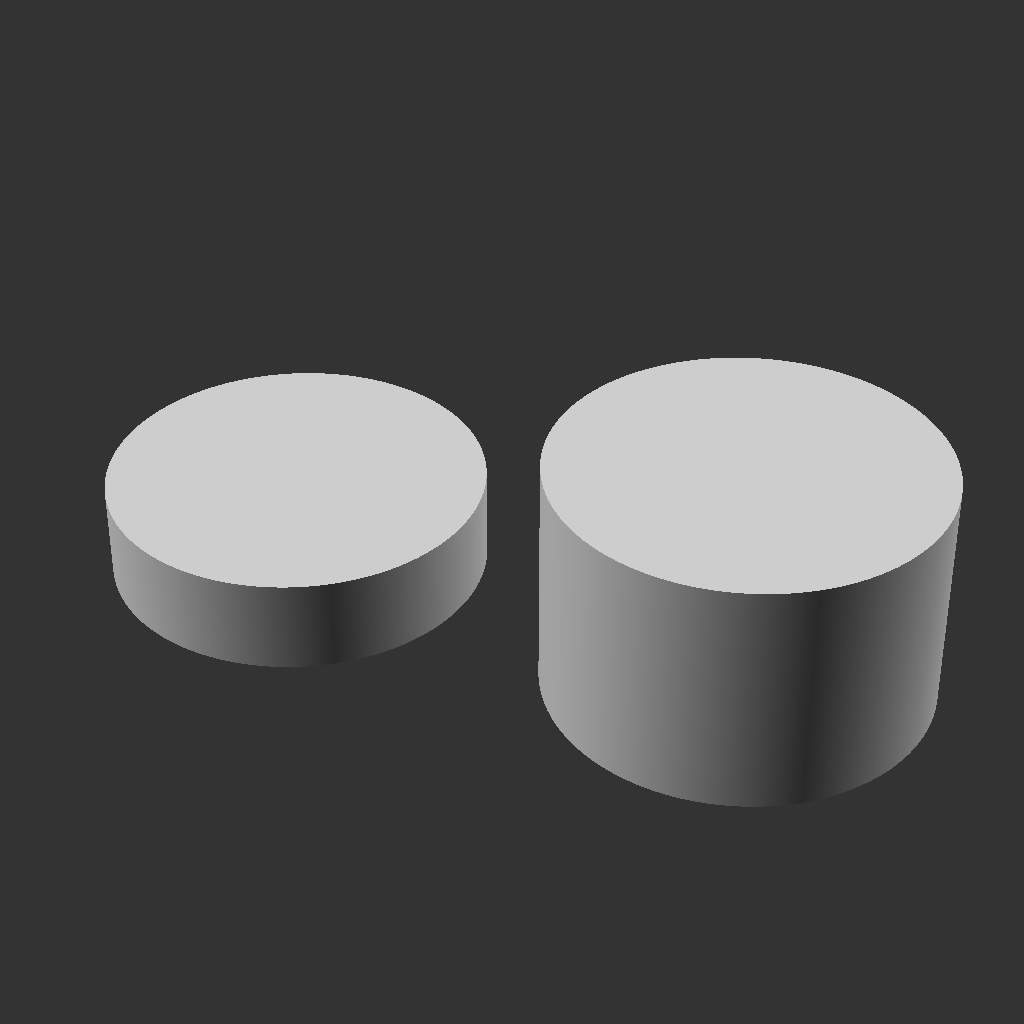
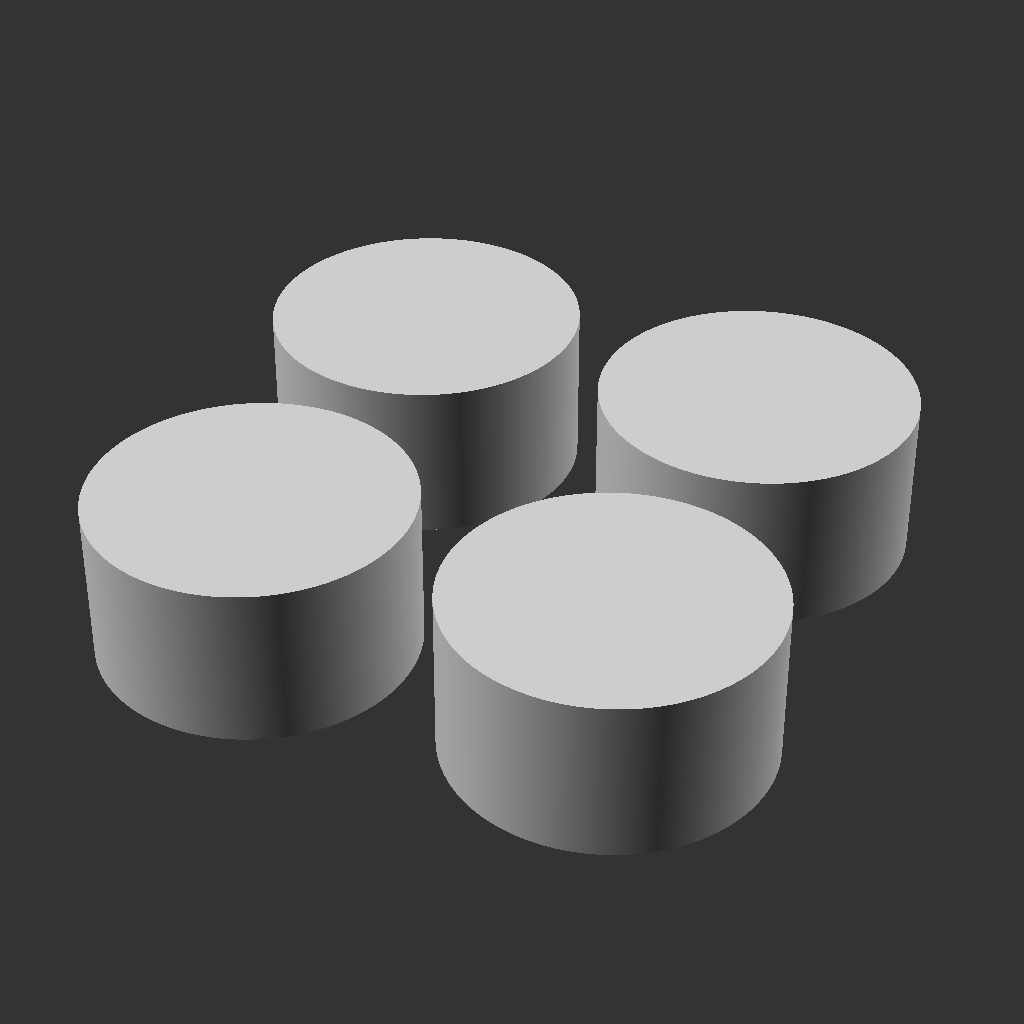
KeyboardFeet: change like everything
I rearranged my desk a bit recently

Changed region(s): [[0.1562, 0.2188, 0.9375, 0.8438], [0.0625, 0.4375, 0.2812, 0.7188], [0.125, 0.4062, 0.1562, 0.4375]]

diff --git a/README.md b/README.md
@@ -55,8 +55,8 @@ A structure that allows you to mount a 200mm fan to a VESA mount.
 
 ## [KeyboardFeet](KeyboardFeet.scad)
 
-Feet for my keyboard to stand on an HDMI switch and Composite converter in
-addition to my PS4.
+Feet for my keyboard to stand on the desk,
+with enough space to route cables below it.
 
 <img width=200px height=200px src=KeyboardFeet.png />
 
